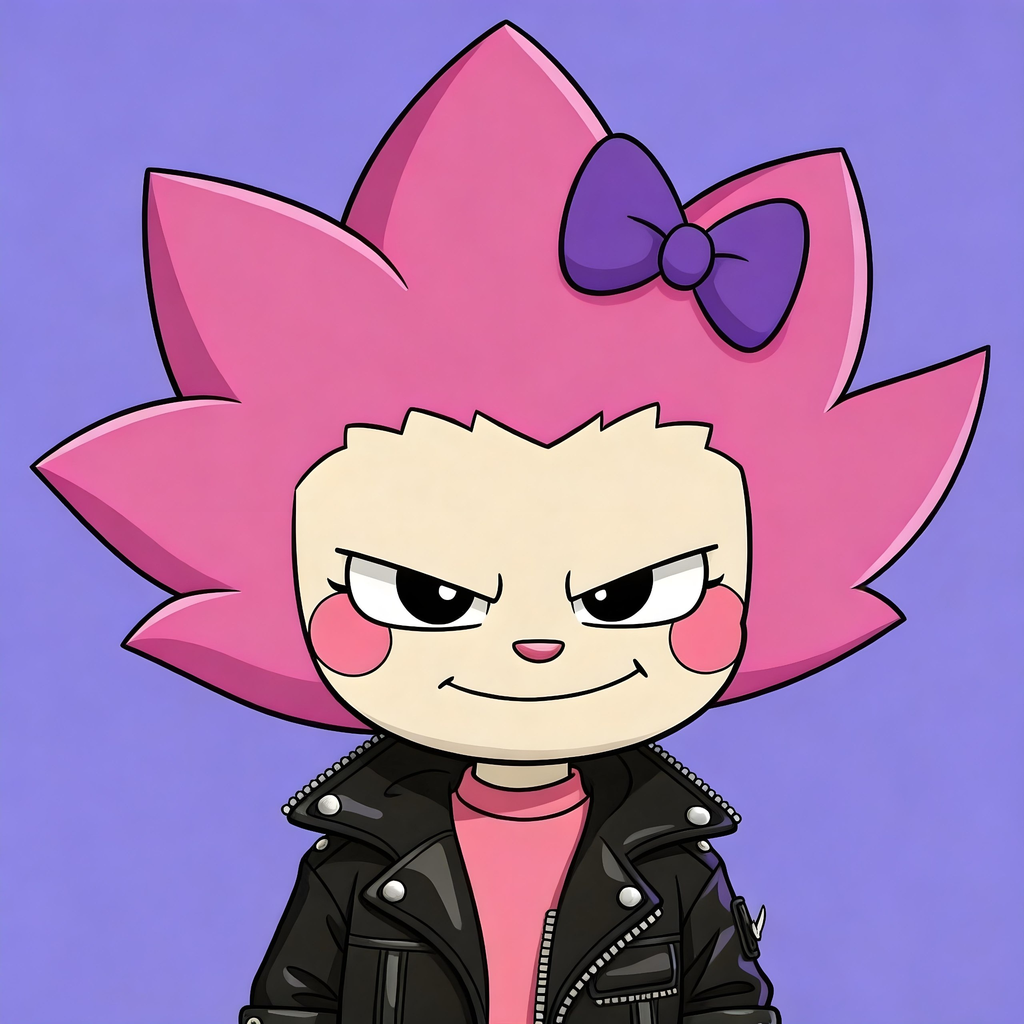
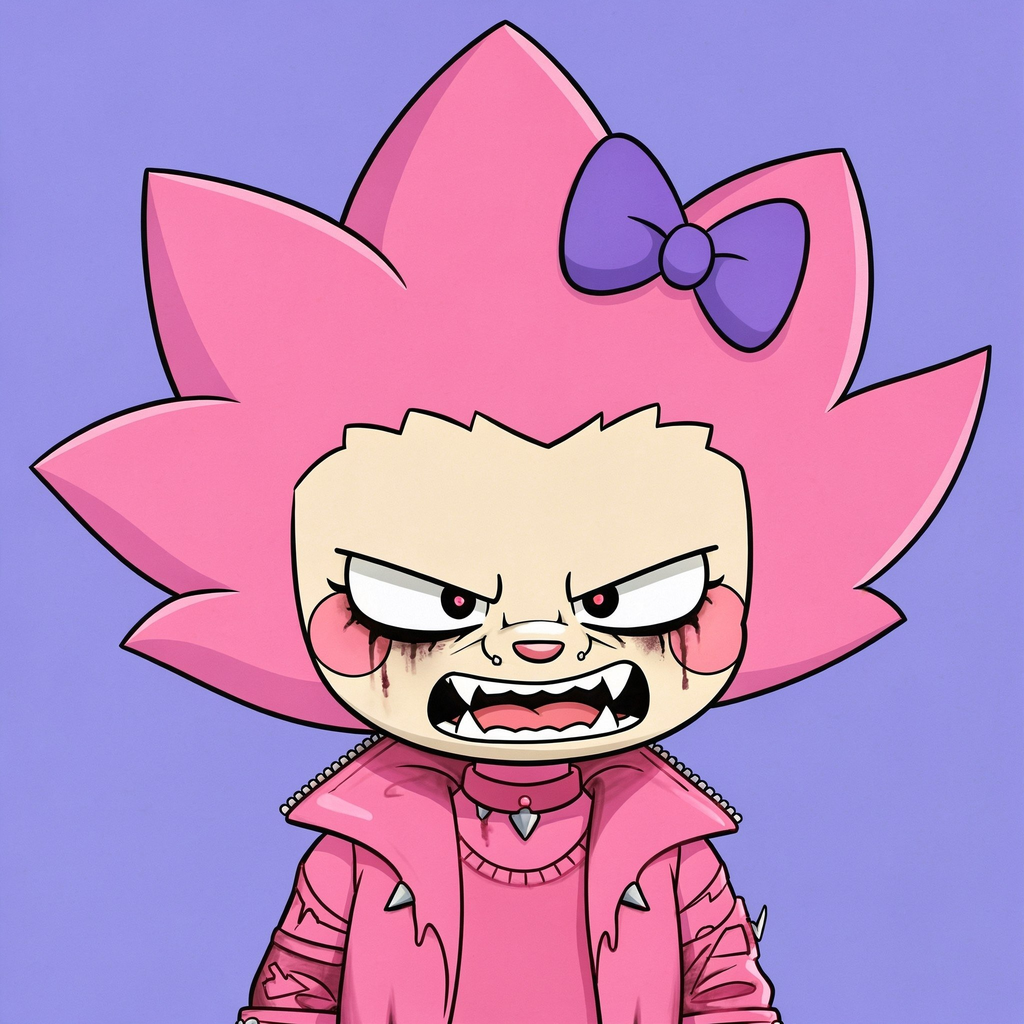
Mint: vampire chogi in Uncommon, leather jacket drops to Common
Final ladder:
  t0 Common     <- leather jacket chogi (was t1)
  t1 Uncommon   <- NEW vampire/feral chogi (bloody fangs, goth tears)
  t2 Rare       <- LOL NFT hammer (unchanged)
  t3 Epic       <- halo + golden robes (unchanged)
  t4 Legendary  <- sci-fi armor + drones (unchanged)

Old t0 (basic art) dropped from rotation entirely.

The vampire vibe at low-tier creates a great mood arc: punk/feral
energy at the bottom, ascending through chaos -> divine -> cyberpunk-god
at the top. Each tier visually distinct.

SW: v1.39.0-vampire-uncommon

Changed region(s): [[0.0312, 0.0312, 0.9688, 1.0]]

diff --git a/sw.js b/sw.js
@@ -3,7 +3,7 @@
              cache-first for static assets (icons, video, json).
    Versioned cache → bumping CHOGI_VERSION invalidates everything cleanly. */
 
-const CHOGI_VERSION   = 'v1.38.0-tier-shuffle';
+const CHOGI_VERSION   = 'v1.39.0-vampire-uncommon';
 const CACHE_RUNTIME   = 'chogi-runtime-' + CHOGI_VERSION;
 const CACHE_PRECACHE  = 'chogi-shell-'   + CHOGI_VERSION;
 
